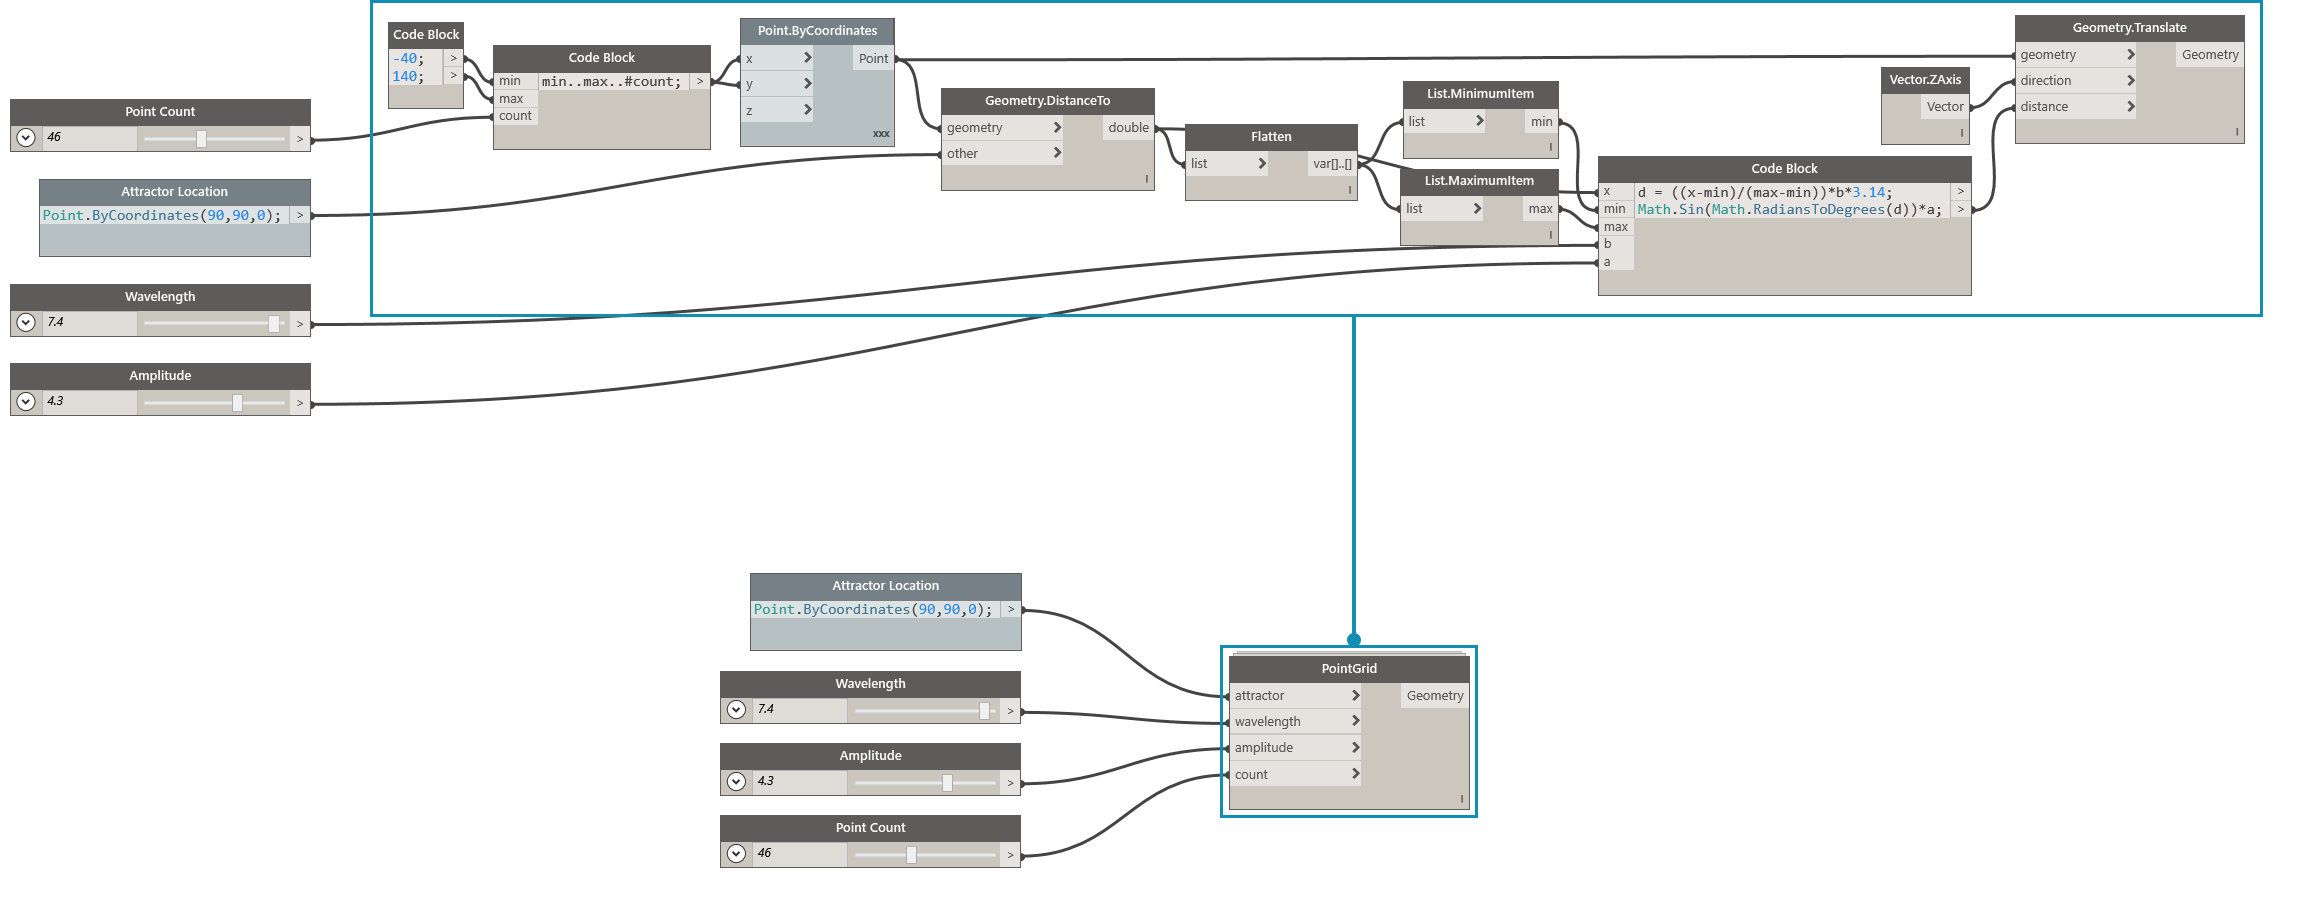
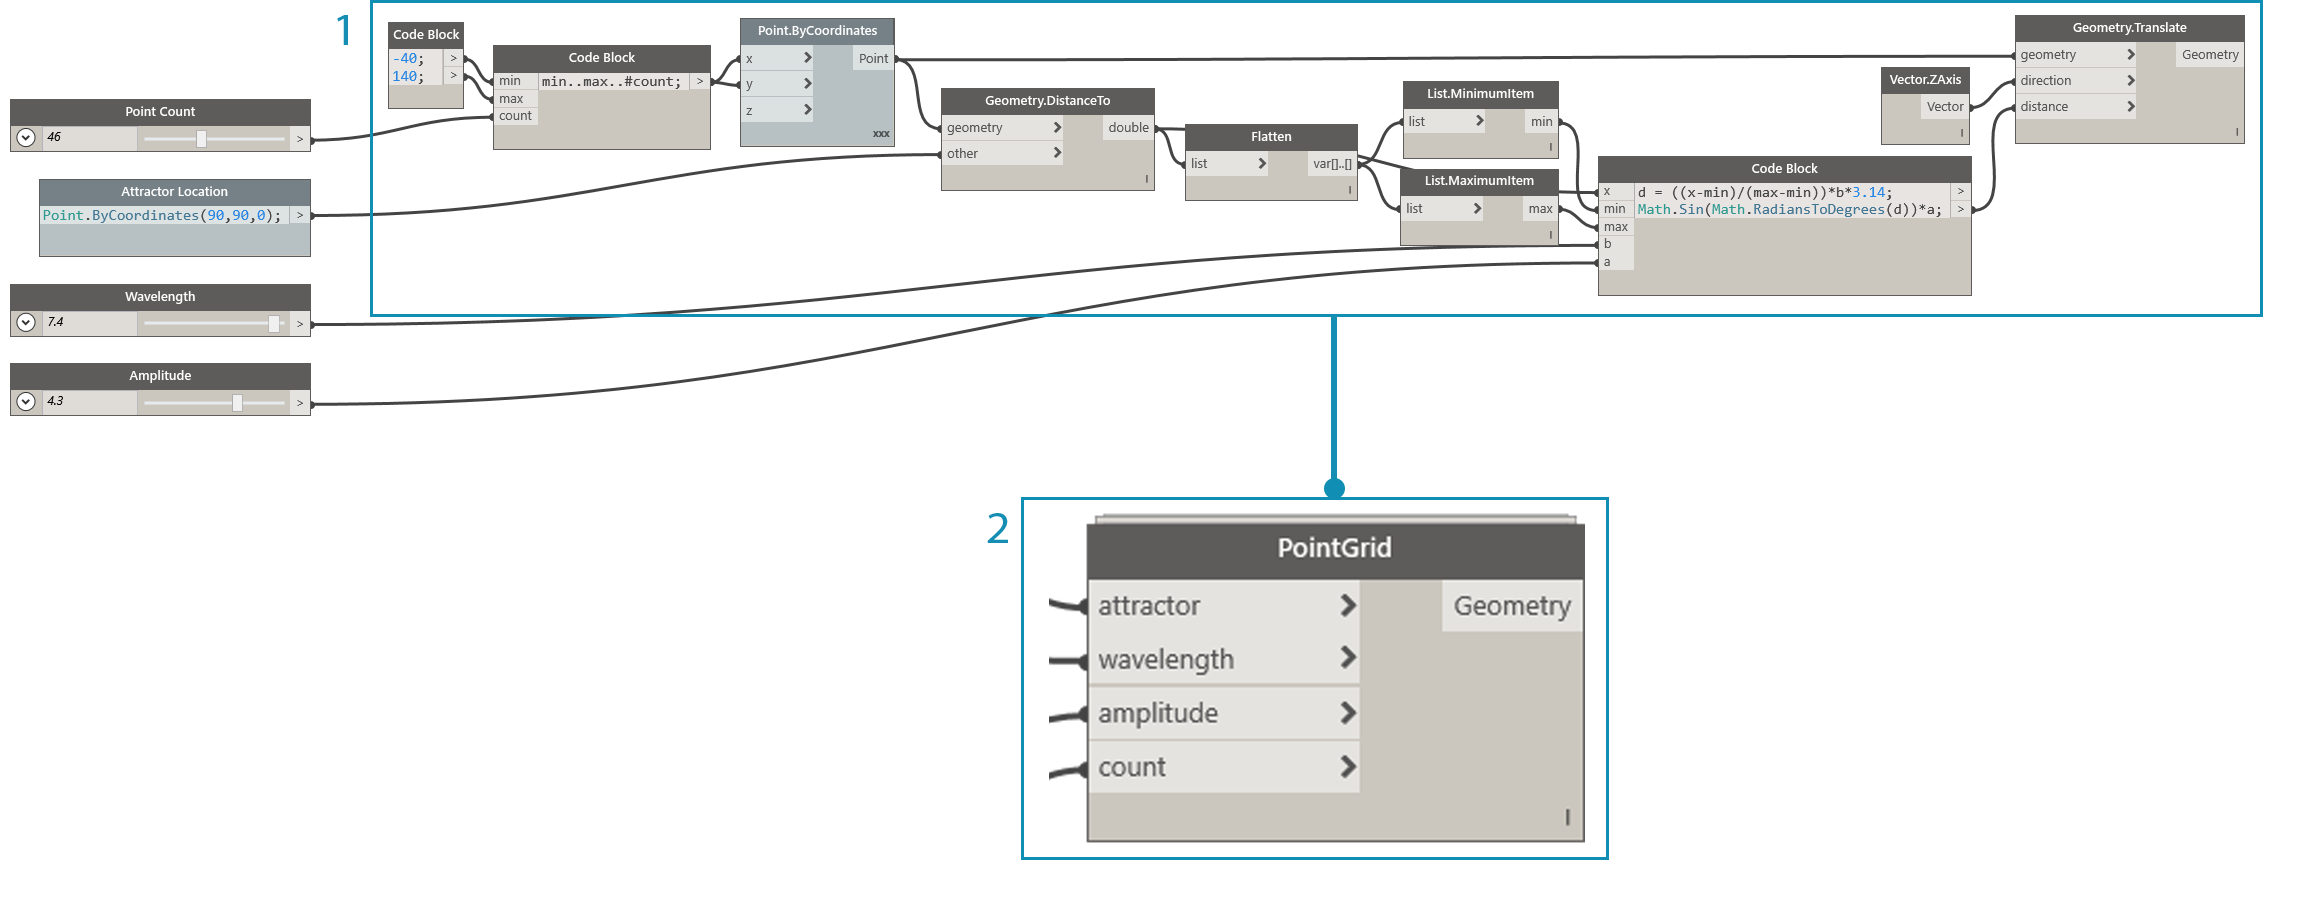
Updates 12_Best-Practice/images/12-2/nodetocode.png
Auto commit by GitBook Editor

Changed region(s): [[0.3122, 0.3676, 0.6869, 0.9497]]

diff --git a/12_Best-Practice/12-2_Graph-Strategies.md b/12_Best-Practice/12-2_Graph-Strategies.md
@@ -52,6 +52,9 @@ As you develop your Dynamo program and test ideas, it can quickly grow in size a
 
 ![nodetocode](images/12-2/nodetocode.png)
 
+> 1. Existing program
+> 2. Code Block created from Node to Code
+
 > For how to use Node to Code, refer to [Design Script Syntax](http://dynamoprimer.com/en/07_Code-Block/7-2_Design-Script-syntax.html).
 
 **Access data flexibly with List@Level:**
@@ -151,7 +154,10 @@ It is highly likely that someone else will be opening your program at some point
 
 ![customnode](images/12-2/customnode.png)
 
-> Condensing the point translation program into a Custom Node makes a robust, unique program portable and far easier to understand. Well named input ports will help other users understand how to use the node. Remember to add descriptions and required data types for each input.
+> Collecting the point translation program into a Custom Node makes a robust, unique program portable and far easier to understand. Well named input ports will help other users understand how to use the node. Remember to add descriptions and required data types for each input.
+
+> 1. Existing attractor program
+> 2. Custom Node that collects this program, PointGrid
 
 > For how to use Custom Nodes, refer to [Custom Node Introduction](http://dynamoprimer.com/en/09_Custom-Nodes/9-1_Introduction.html).
 
